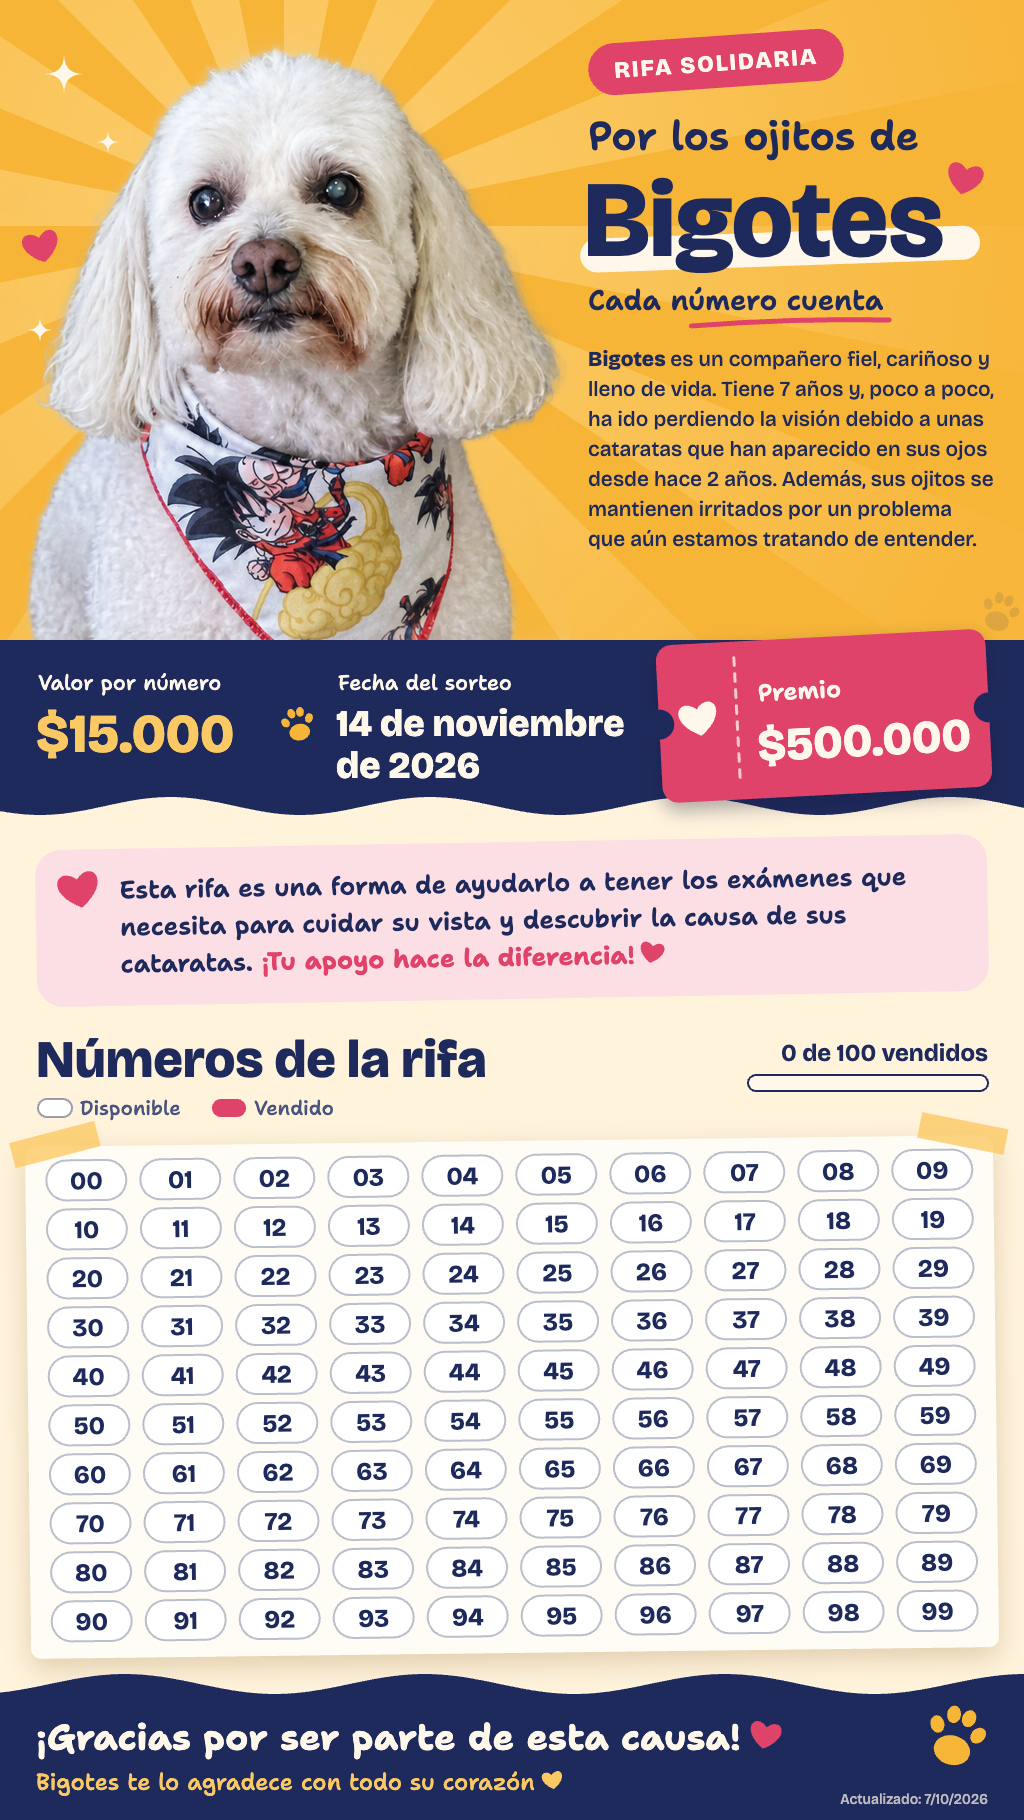
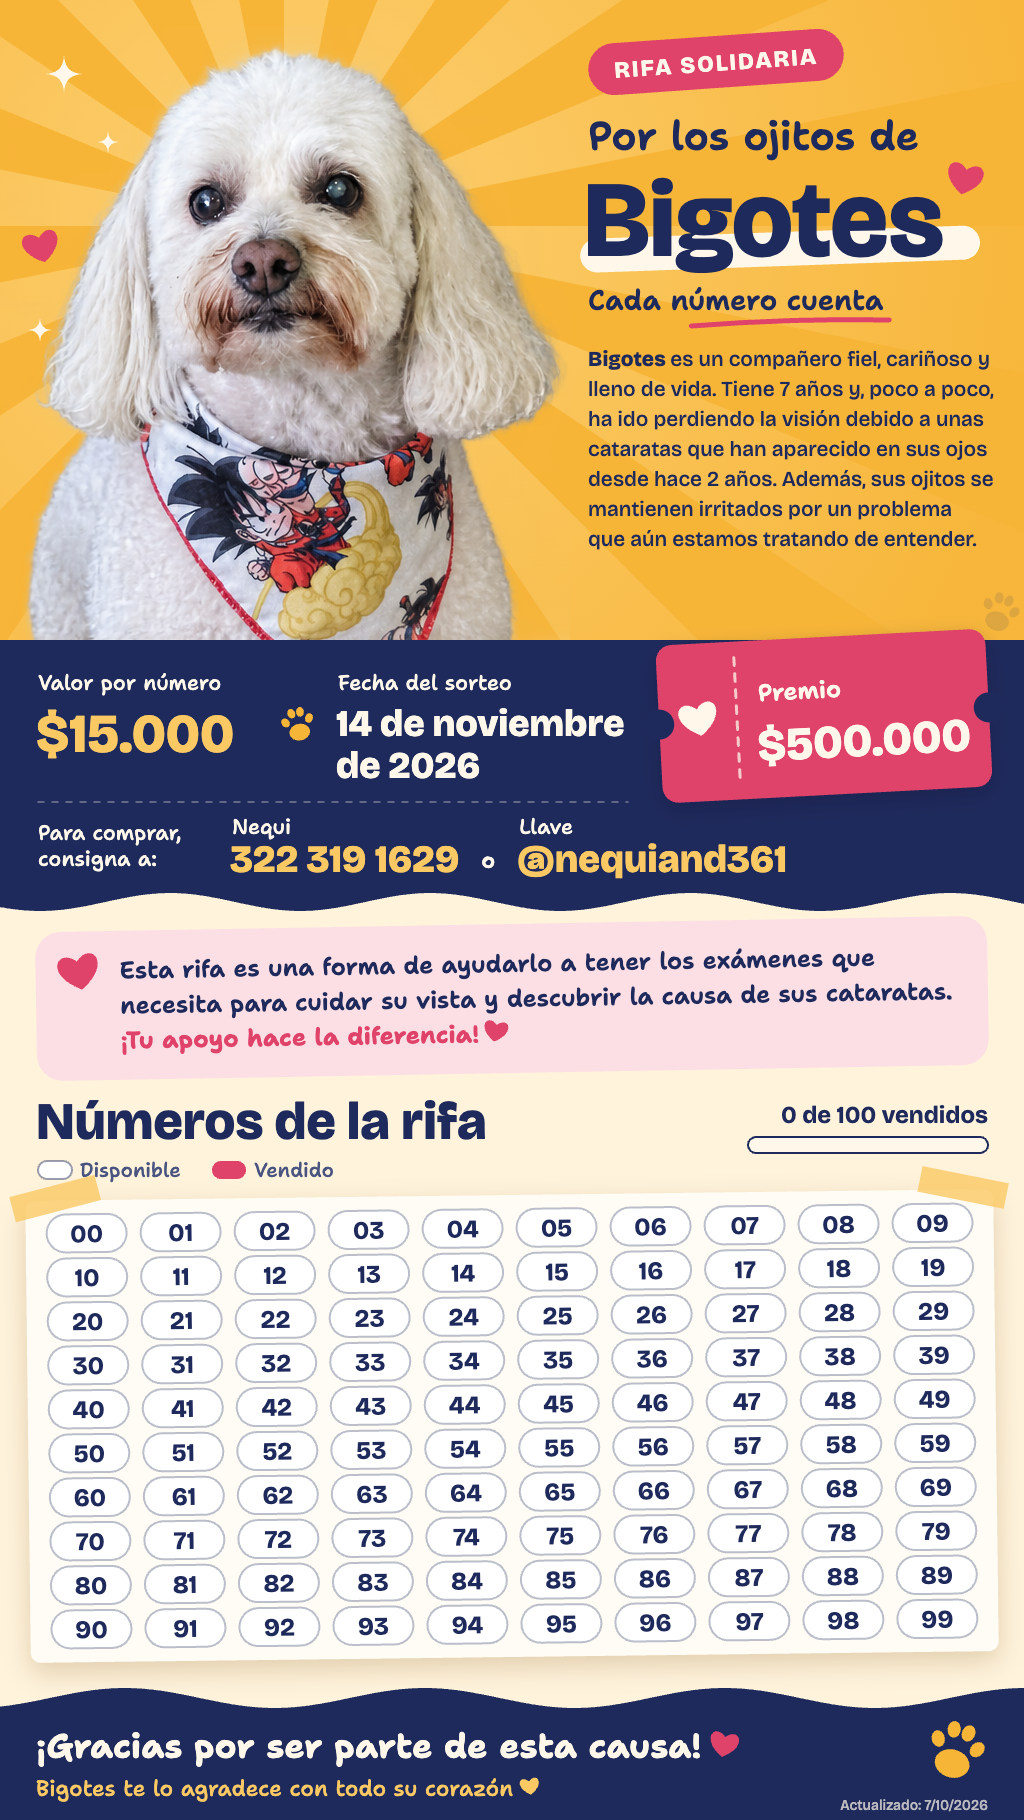
Agrega en el flyer y en la página dónde consignar por Nequi

Changed region(s): [[0.0, 0.4308, 1.0, 1.0]]

diff --git a/index.html b/index.html
@@ -15,6 +15,7 @@
 <h1>Por los ojitos de Bigotes</h1>
 <p>Bigotes necesita nuestra ayuda. Tiene cataratas desde hace aproximadamente dos años y sus ojitos también han presentado irritación. La rifa busca reunir el dinero necesario para realizar sus exámenes oftalmológicos y conocer qué está causando su pérdida de visión.</p>
 <p>Con solo una boleta puedes aportar a que Bigotes reciba la atención que necesita. ❤</p>
+<p><b>Para comprar</b>, consigna por Nequi al <b>322 319 1629</b> o a la llave <b>@nequiand361</b>.</p>
 <div class="facts"><div class="fact"><b>$15.000</b><span>por número</span></div><div class="fact"><b>$500.000</b><span>premio</span></div><div class="fact"><b>14 nov.</b><span>día del sorteo</span></div></div>
 </div>
 <div class="card photo" id="flyerPreview"></div>
@@ -145,7 +146,7 @@ async function createFlyer(){
 
   // 4. Cinta con los datos de la rifa (Bigotes se apoya sobre ella).
   ctx.fillStyle=C.paper;ctx.fillRect(0,640,W,H-640);
-  wavyBand(640,806,9,260,.6,C.ink,'bottom');
+  wavyBand(640,902,9,260,.6,C.ink,'bottom');
   txt('Valor por número',38,690,{size:21,weight:500,family:HAND,color:C.cream});
   txt('$15.000',36,752,{size:54,weight:800,color:C.sunLight});
   paw(298,724,26,C.sun,-12);
@@ -165,23 +166,35 @@ async function createFlyer(){
     txt('$500.000',-w/2+97,42,{size:fit('$500.000',w-120,62,800,TITLE),weight:800,color:C.cream});
   });
 
+  // Dónde consignar: en la misma cinta, debajo del precio.
+  ctx.strokeStyle='rgba(255,248,234,.3)';ctx.lineWidth=2;ctx.setLineDash([6,8]);
+  ctx.beginPath();ctx.moveTo(38,802);ctx.lineTo(628,802);ctx.stroke();ctx.setLineDash([]);
+  txt('Para comprar,',38,840,{size:21,weight:500,family:HAND,color:C.cream});
+  txt('consigna a:',38,866,{size:21,weight:500,family:HAND,color:C.cream});
+  txt('Nequi',232,834,{size:21,weight:500,family:HAND,color:C.cream});
+  txt('322 319 1629',230,872,{size:38,weight:800,color:C.sunLight});
+  const keyX=230+width('322 319 1629',38,800,TITLE)+58;
+  txt('o',keyX-36,868,{size:22,weight:600,family:HAND,color:C.cream});
+  txt('Llave',keyX+2,834,{size:21,weight:500,family:HAND,color:C.cream});
+  txt('@nequiand361',keyX,872,{size:38,weight:800,color:C.sunLight});
+
   // 5. Para qué es la rifa: una nota escrita a mano.
   const note=[
     {text:'Esta rifa es una forma de ayudarlo a tener los exámenes que necesita para cuidar su vista y descubrir la causa de sus cataratas.',weight:600,family:HAND,color:C.ink},
     {text:'¡Tu apoyo hace la diferencia!',weight:700,family:HAND,color:C.berry}
   ];
-  const NX=36,NW=W-72,NY=842,padL=84,size=25,line=37;
-  const lines=rich(note,0,0,NW-padL-34,size,line,false).y/line+1,NH=lines*line+46;
+  const NX=36,NW=W-72,NY=924,padL=84,size=24,line=35;
+  const lines=rich(note,0,0,NW-padL-34,size,line,false).y/line+1,NH=lines*line+44;
   turn(NX+NW/2,NY+NH/2,-1,()=>{
     ctx.fillStyle=C.blush;ctx.beginPath();ctx.roundRect(-NW/2,-NH/2,NW,NH,26);ctx.fill();
     heart(-NW/2+44,-NH/2+44,34,C.berry,-10);
-    const end=rich(note,-NW/2+padL,-NH/2+50,NW-padL-34,size,line);
+    const end=rich(note,-NW/2+padL,-NH/2+48,NW-padL-34,size,line);
     heart(end.x+8,end.y-9,20,C.berry,10);
   });
 
   // 6. Números: una hoja pegada con cinta.
   const sold=Array.from({length:100},(_,i)=>String(i).padStart(2,'0')).filter(n=>data[n]).length;
-  const T=NY+NH+78;
+  const T=NY+NH+66;
   txt('Números de la rifa',36,T,{size:52,weight:800});
   txt(`${sold} de 100 vendidos`,988,T-16,{size:24,weight:700,align:'right'});
   ctx.fillStyle=C.cream;ctx.strokeStyle=C.ink;ctx.lineWidth=2;
@@ -193,18 +206,18 @@ async function createFlyer(){
     txt(label,x+42,T+38,{size:20,weight:500,family:HAND,color:C.inkSoft});
   };
   legend(38,false,'Disponible');legend(212,true,'Vendido');
-  const SX=28,SY=T+64,SW=968,SH=512;
+  const SX=28,SY=T+56,SW=968,SH=462;
   turn(SX+SW/2,SY+SH/2,-.7,()=>{
     ctx.save();ctx.shadowColor='rgba(120,74,10,.22)';ctx.shadowBlur=26;ctx.shadowOffsetY=10;
     ctx.fillStyle=C.sheet;ctx.beginPath();ctx.roundRect(-SW/2,-SH/2,SW,SH,10);ctx.fill();ctx.restore();
     const gx=-SW/2+(SW-(9*94+80))/2,gy=-SH/2+14;
     for(let i=0;i<100;i++){
-      const n=String(i).padStart(2,'0'),x=gx+(i%10)*94,y=gy+Math.floor(i/10)*49,isSold=Boolean(data[n]);
-      ctx.beginPath();ctx.roundRect(x,y,80,40,20);
+      const n=String(i).padStart(2,'0'),x=gx+(i%10)*94,y=gy+Math.floor(i/10)*44,isSold=Boolean(data[n]);
+      ctx.beginPath();ctx.roundRect(x,y,80,38,19);
       if(isSold){ctx.fillStyle=C.berry;ctx.fill()}
       else{ctx.fillStyle='#ffffff';ctx.fill();ctx.strokeStyle='rgba(31,42,92,.3)';ctx.lineWidth=2;ctx.stroke()}
-      txt(n,x+(isSold?34:40),y+29,{size:25,weight:700,color:isSold?C.cream:C.ink,align:'center'});
-      if(isSold)heart(x+62,y+20,15,C.cream);
+      txt(n,x+(isSold?34:40),y+28,{size:25,weight:700,color:isSold?C.cream:C.ink,align:'center'});
+      if(isSold)heart(x+62,y+19,15,C.cream);
     }
     ctx.fillStyle='rgba(251,201,100,.8)';
     turn(-SW/2+30,-SH/2-2,-14,()=>ctx.fillRect(-44,-13,88,26));
@@ -212,14 +225,14 @@ async function createFlyer(){
   });
 
   // 7. Cierre.
-  wavyBand(H-136,H,10,300,2.1,C.ink,'top');
+  wavyBand(H-122,H,10,300,2.1,C.ink,'top');
   const thanks='¡Gracias por ser parte de esta causa!',love='Bigotes te lo agradece con todo su corazón';
-  txt(thanks,36,H-70,{size:36,weight:700,family:HAND,color:C.cream});
-  heart(36+width(thanks,36,700,HAND)+24,H-82,26,C.berry,10);
-  txt(love,36,H-30,{size:23,weight:500,family:HAND,color:C.sunLight});
-  heart(36+width(love,23,500,HAND)+18,H-38,17,C.sunLight,-8);
-  paw(956,H-84,46,C.sun,16);
-  txt(`Actualizado: ${new Date().toLocaleDateString('es-CO',{timeZone:'America/Bogota'})}`,988,H-16,{size:14,weight:500,color:'rgba(255,248,234,.7)',align:'right'});
+  txt(thanks,36,H-62,{size:34,weight:700,family:HAND,color:C.cream});
+  heart(36+width(thanks,34,700,HAND)+22,H-73,24,C.berry,10);
+  txt(love,36,H-24,{size:22,weight:500,family:HAND,color:C.sunLight});
+  heart(36+width(love,22,500,HAND)+17,H-32,16,C.sunLight,-8);
+  paw(956,H-70,44,C.sun,16);
+  txt(`Actualizado: ${new Date().toLocaleDateString('es-CO',{timeZone:'America/Bogota'})}`,988,H-10,{size:14,weight:500,color:'rgba(255,248,234,.7)',align:'right'});
   return canvas;
 }
 // La página muestra el mismo flyer que se descarga, siempre al día con los números vendidos.
